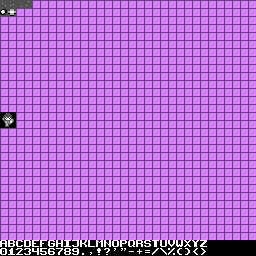
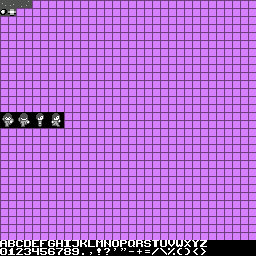
27 moves up down left right and render text dinamic on screen 3:24:12

Changed region(s): [[0.0625, 0.4375, 0.25, 0.5]]

diff --git a/src/com/w1ll1x/ld22/Game.java b/src/com/w1ll1x/ld22/Game.java
@@ -13,6 +13,7 @@ import javax.imageio.ImageIO;
 import javax.swing.JFrame;
 
 import com.w1ll1x.ld22.gfx.Color;
+import com.w1ll1x.ld22.gfx.Font;
 import com.w1ll1x.ld22.gfx.Screen;
 import com.w1ll1x.ld22.gfx.SpriteSheet;
 
@@ -30,6 +31,8 @@ public class Game extends Canvas implements Runnable {
 	private int tickCount;
 	private Screen screen;
 	private InputHandler input = new InputHandler(this);
+	private int walkDist = 0;
+	private int dir = 0;
 
 	private int[] colors = new int[256];
 
@@ -114,10 +117,29 @@ public class Game extends Canvas implements Runnable {
 	}
 
 	public void tick() {
-		if (input.up) screen.yScroll--;
-		if (input.down) screen.yScroll++;
-		if (input.left) screen.xScroll--;
-		if (input.right) screen.xScroll++;
+		boolean walked = false;
+		if (input.up) {
+			dir = 1;
+			walked = true;
+			screen.yScroll--;
+		}
+		if (input.down) {
+			dir = 0;
+			walked = true;
+			screen.yScroll++;
+		}
+		if (input.left) {
+			dir = 2;
+			walked = true;
+			screen.xScroll--;
+		}
+		if (input.right) {
+			dir = 3;
+			walked = true;
+			screen.xScroll++;
+		}
+		if (walked)
+			walkDist++;
 		tickCount++;
 	}
 
@@ -133,14 +155,32 @@ public class Game extends Canvas implements Runnable {
 		{
 			int xo = WIDTH / 2 - 8;
 			int yo = HEIGHT / 2 - 8;
-			
-			int flip = (screen.yScroll >> 3) & 1;
-			screen.render(xo + 8 * flip, yo + 0, 0 + 14 * 32, Color.get(-1, 100, 220, 532), flip);
-			screen.render(xo + 8 - 8 * flip, yo + 0, 1 + 14 * 32, Color.get(-1, 100, 220, 532), flip);
-			screen.render(xo + 8 * flip, yo + 8, 0 + 15 * 32, Color.get(-1, 100, 220, 532), flip);
-			screen.render(xo + 8 - 8 * flip, yo + 8, 1 + 15 * 32, Color.get(-1, 100, 220, 532), flip);
+
+			int xt = 0;
+			int yt = 14;
+
+			int flip1 = (walkDist >> 3) & 1;
+			int flip2 = (walkDist >> 3) & 1;
+
+			if (dir == 1) {
+				xt += 2;
+			}
+			if (dir > 1) {
+				flip1 = 0;
+				flip2 = (walkDist >> 5) & 1;
+				if (dir == 2) {
+					flip1 = 1;
+				}
+				xt = 4 + ((walkDist >> 3) & 1) * 2;
+			}
+
+			screen.render(xo + 8 * flip1, yo + 0, xt + yt * 32, Color.get(-1, 100, 220, 532), flip1);
+			screen.render(xo + 8 - 8 * flip1, yo + 0, xt + 1 + yt * 32, Color.get(-1, 100, 220, 532), flip1);
+			screen.render(xo + 8 * flip2, yo + 8, xt + (yt + 1) * 32, Color.get(-1, 100, 220, 532), flip2);
+			screen.render(xo + 8 - 8 * flip2, yo + 8, xt + 1 + (yt + 1) * 32, Color.get(-1, 100, 220, 532), flip2);
 		}
 
+		Font.draw("Testing the 0341879123", screen, 0, 0, Color.get(-1, 555, 555, 555));
 		for (int y = 0; y < screen.h; y++) {
 			for (int x = 0; x < screen.w; x++) {
 				pixels[x + y * WIDTH] = colors[screen.pixels[x + y * screen.w]];

diff --git a/src/com/w1ll1x/ld22/gfx/Font.java b/src/com/w1ll1x/ld22/gfx/Font.java
@@ -6,12 +6,22 @@ public class Font {
 			"0123456789.,!?'\"-+=/\\%()<>:;     " + //
 			"";
 
-	public void draw(String msg, Screen screen, int x, int y) {
+	public static void setMap(String msg, Screen screen, int x, int y, int col) {
 		msg = msg.toUpperCase();
 		for (int i = 0; i < msg.length(); i++) {
 			int ix = chars.indexOf(msg.charAt(i));
 			if (ix >= 0) {
-				screen.setTile(x + i, y, ix + 30 * 32, (5 + 5 * 6 + 5 * 36) * 256 * 256*256, 0);
+				screen.setTile(x + i, y, ix + 30 * 32, col, 0);
+			}
+		}
+	}
+	
+	public static void draw(String msg, Screen screen, int x, int y, int col) {
+		msg = msg.toUpperCase();
+		for (int i = 0; i < msg.length(); i++) {
+			int ix = chars.indexOf(msg.charAt(i));
+			if (ix >= 0) {
+				screen.render(x + i * 8, y, ix + 30 * 32, col, 0);
 			}
 		}
 	}

diff --git a/src/com/w1ll1x/ld22/gfx/Screen.java b/src/com/w1ll1x/ld22/gfx/Screen.java
@@ -49,8 +49,7 @@ public class Screen {
 			}
 		}
 
-		new Font().draw("Testing the 0341879123", this, 0, 0);
-		
+		Font.setMap("Testing the 0341879123", this, 0, 0, Color.get(0, 555, 555, 555));
 	}
 
 
